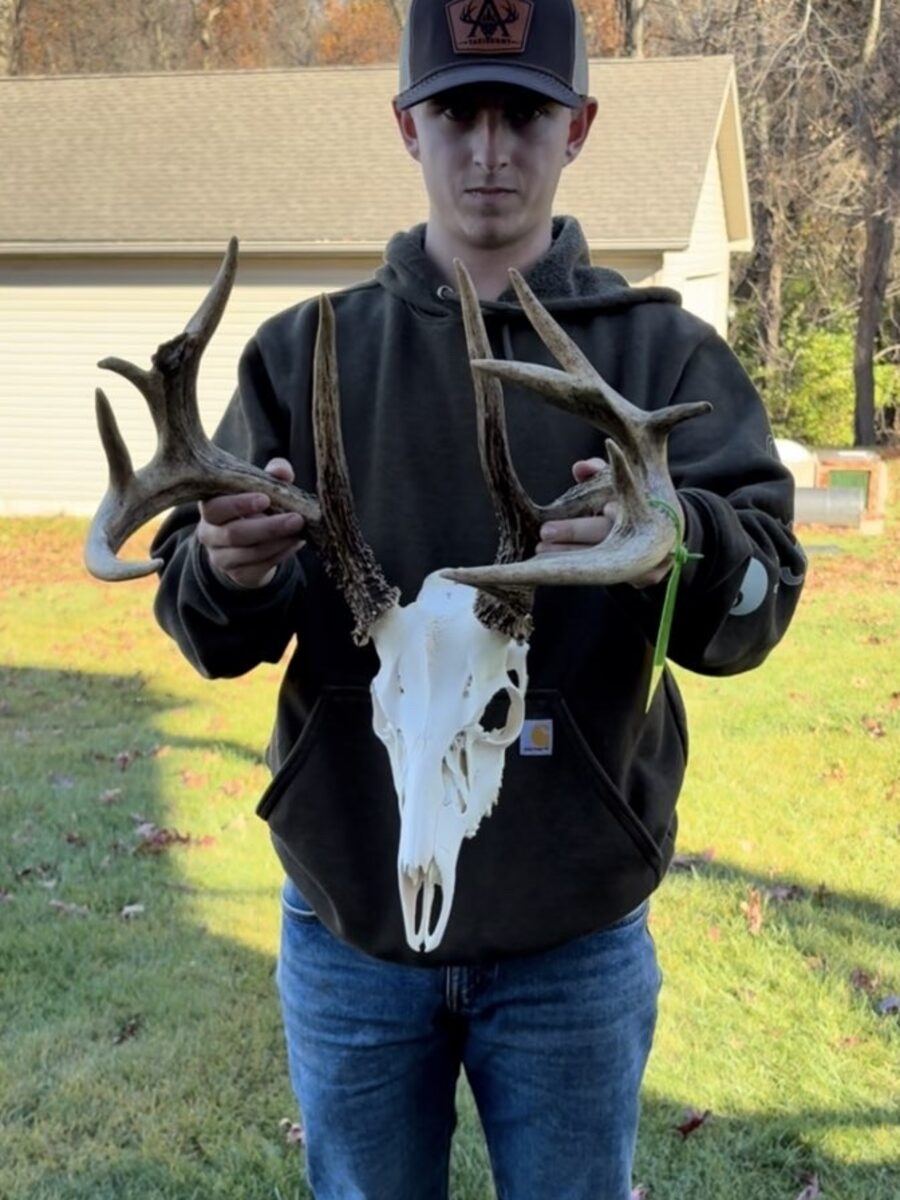
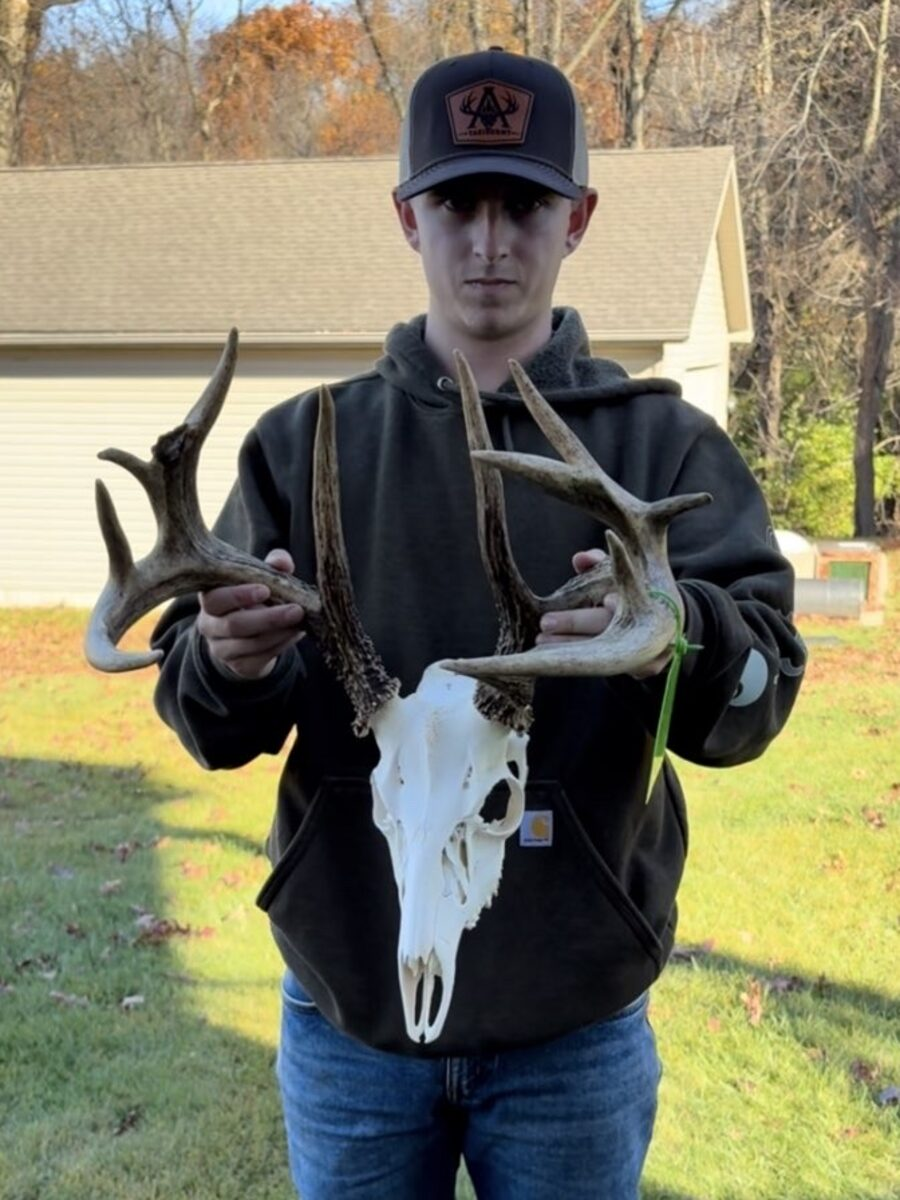
Show full photos in gallery tiles and reframe new mount photo
Gallery tiles now use a 3:4 shape that matches the photos, so the
skulls, antlers and faces stay fully in frame instead of being cut off
by the old fixed 360px height.

Claude-Session: https://claude.ai/code/session_012eFhtuWzEzpxjhGZYkDMWa

diff --git a/css/style.css b/css/style.css
@@ -374,7 +374,7 @@ h2.section-title { font-size: var(--text-xl); text-align: center; margin-bottom:
   background: var(--color-surface);
   box-shadow: var(--shadow-sm);
 }
-.gallery-grid img { width: 100%; height: 360px; object-fit: cover; transition: transform 0.5s cubic-bezier(0.16,1,0.3,1); }
+.gallery-grid img { width: 100%; height: auto; aspect-ratio: 3 / 4; object-fit: cover; transition: transform 0.5s cubic-bezier(0.16,1,0.3,1); }
 .gallery-grid figure:hover img { transform: scale(1.06); }
 .gallery-grid figcaption {
   position: absolute; left: 0; right: 0; bottom: 0;
